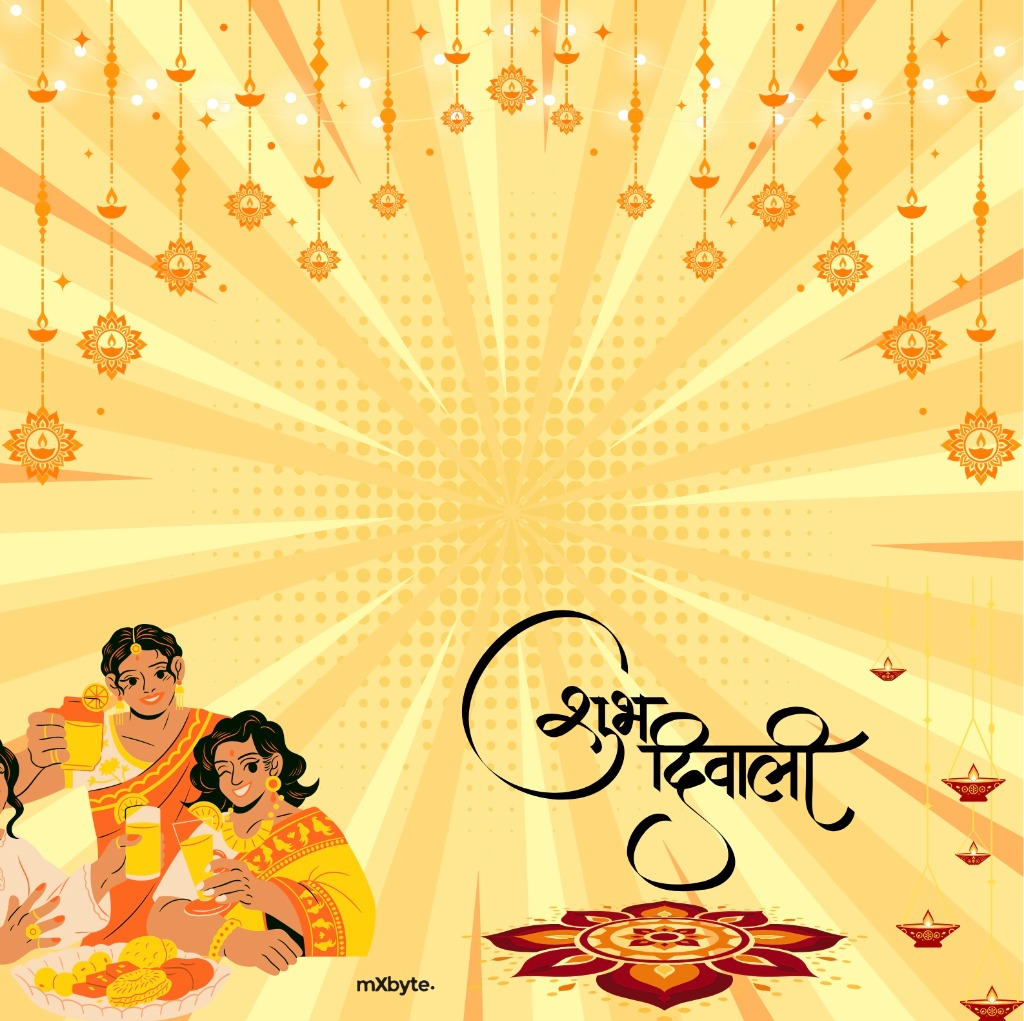
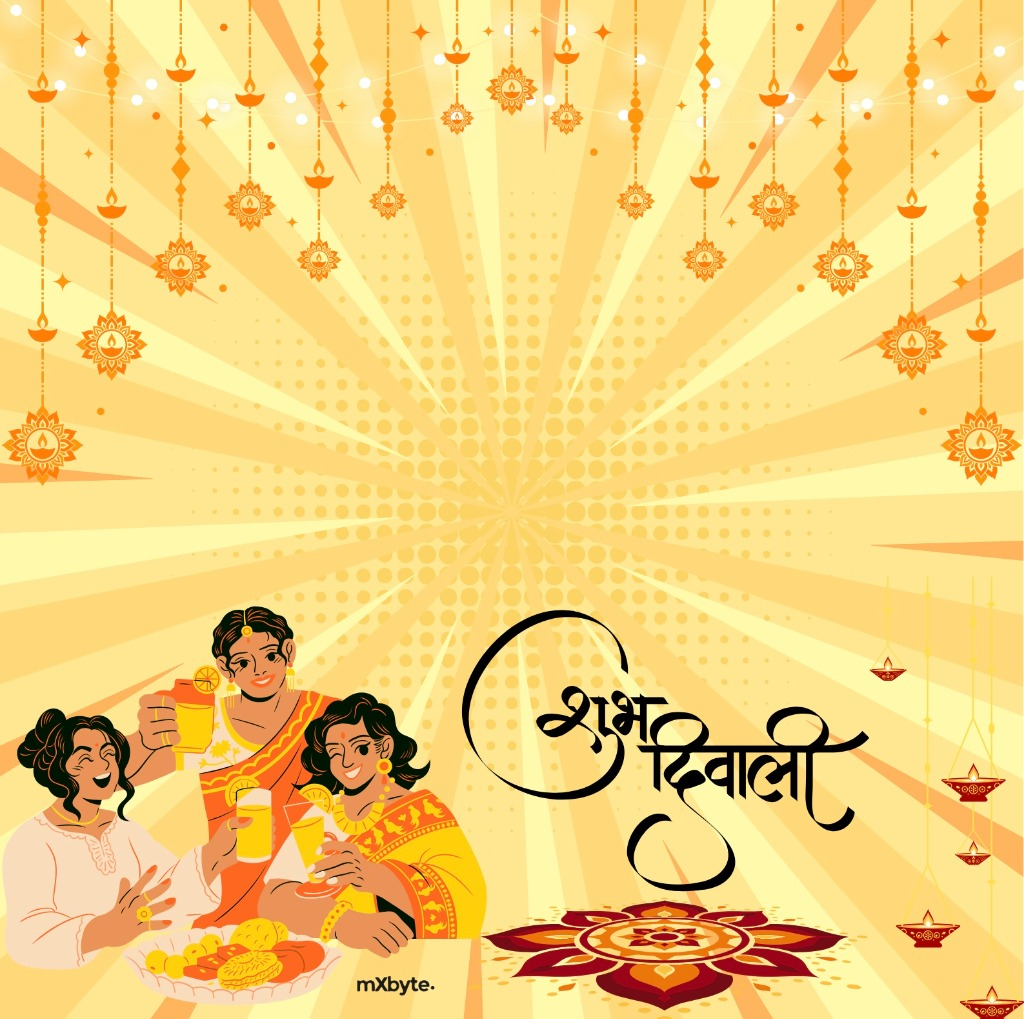
feat(hero): replace Diwali advertisement poster image with user uploaded version and add v2 cache buster

diff --git a/Chocoloom Website/app.js b/Chocoloom Website/app.js
@@ -3859,7 +3859,7 @@ function getActiveHeroBanners() {
             if (Array.isArray(parsed) && parsed.length > 0) {
                 const storedCraft = parsed.find(b => b && b.id === 'b_craft_happy_moments');
                 const storedDiwali = parsed.find(b => b && b.id === 'b_diwali');
-                if (storedCraft && storedCraft.cta === 'Register Now' && !storedCraft.title && storedDiwali && storedDiwali.image === 'assets/diwali_poster_banner.jpg') {
+                if (storedCraft && storedCraft.cta === 'Register Now' && !storedCraft.title && storedDiwali && storedDiwali.image === 'assets/diwali_poster_banner.jpg?v=2') {
                     savedBanners = parsed;
                 } else {
                     localStorage.removeItem("chocoloom_banners");
@@ -3881,9 +3881,9 @@ function getActiveHeroBanners() {
         subtitle: "",
         discountText: "FLAT 40% OFF (NOV 7–9)",
         code: "DIWALI40",
-        image: "assets/diwali_poster_banner.jpg",
-        fallbackImage: "assets/diwali_poster_banner.jpg",
-        mobileImage: "assets/diwali_poster_banner.jpg",
+        image: "assets/diwali_poster_banner.jpg?v=2",
+        fallbackImage: "assets/diwali_poster_banner.jpg?v=2",
+        mobileImage: "assets/diwali_poster_banner.jpg?v=2",
         overlayGradient: "none",
         bgColor: "#fadf84",
         badge: "VALID NOV 7–9 ONLY 🪔",
@@ -3950,16 +3950,16 @@ function getActiveHeroBanners() {
             ban.tag = 'DIWALI SPECIAL (NOV 7–9 ONLY)';
             ban.title = '';
             ban.subtitle = '';
-            ban.image = 'assets/diwali_poster_banner.jpg';
-            ban.fallbackImage = 'assets/diwali_poster_banner.jpg';
-            ban.mobileImage = 'assets/diwali_poster_banner.jpg';
+            ban.image = 'assets/diwali_poster_banner.jpg?v=2';
+            ban.fallbackImage = 'assets/diwali_poster_banner.jpg?v=2';
+            ban.mobileImage = 'assets/diwali_poster_banner.jpg?v=2';
             ban.overlayGradient = 'none';
             ban.bgColor = '#fadf84';
             ban.cta = 'Claim 40% OFF';
             ban.code = 'DIWALI40';
             ban.ctaAction = 'copy_coupon';
             ban.isGraphicBanner = false;
-            img = 'assets/diwali_poster_banner.jpg';
+            img = 'assets/diwali_poster_banner.jpg?v=2';
             needsCacheUpdate = true;
         }
         const discountText = (ban.discountText && ban.discountText.includes('COMING SOON')) ? '' : (ban.discountText || '');

diff --git a/Chocoloom Website/data.js b/Chocoloom Website/data.js
@@ -744,9 +744,9 @@ window.SWIGGY_DATA = {
             "subtitle": "",
             "discountText": "FLAT 40% OFF (NOV 7–9)",
             "code": "DIWALI40",
-            "image": "assets/diwali_poster_banner.jpg",
-            "fallbackImage": "assets/diwali_poster_banner.jpg",
-            "mobileImage": "assets/diwali_poster_banner.jpg",
+            "image": "assets/diwali_poster_banner.jpg?v=2",
+            "fallbackImage": "assets/diwali_poster_banner.jpg?v=2",
+            "mobileImage": "assets/diwali_poster_banner.jpg?v=2",
             "overlayGradient": "none",
             "bgColor": "#fadf84",
             "badge": "VALID NOV 7–9 ONLY 🪔",
